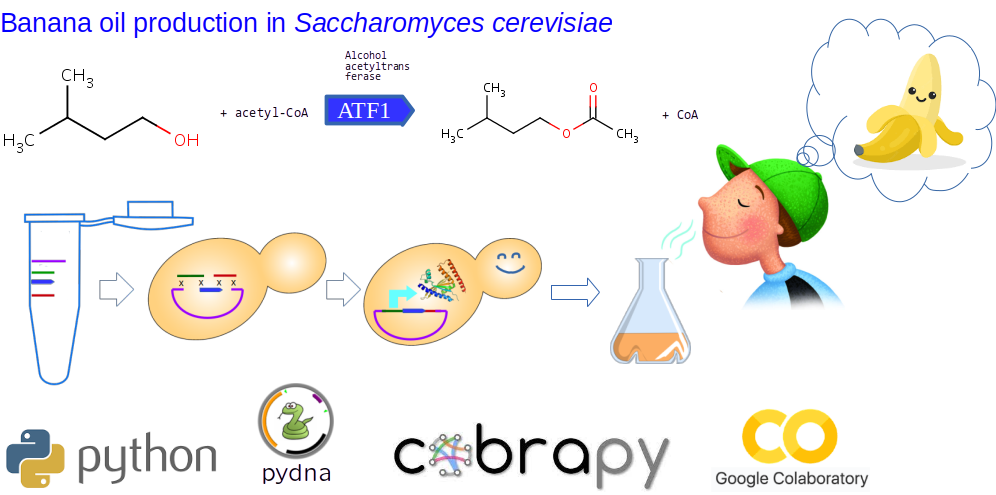
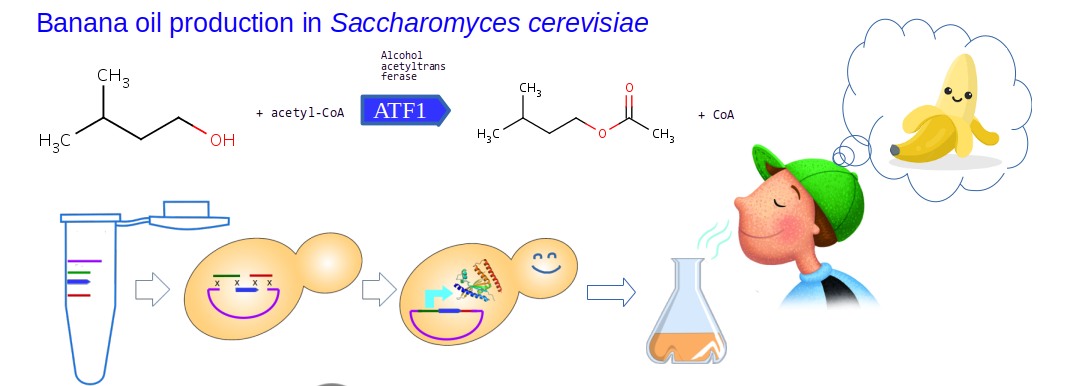
Published via Quartz Syncer

diff --git a/content/people.md b/content/people.md
@@ -4,8 +4,8 @@ publish: true
 
 | Current members                                                |                                       | links                                                                                                                                                                                                                                                                                                                                                                                                                                                                                                                                                                                                                                                                                                                                                                                                                                                                                                                         |
 | -------------------------------------------------------------- | ------------------------------------- | ----------------------------------------------------------------------------------------------------------------------------------------------------------------------------------------------------------------------------------------------------------------------------------------------------------------------------------------------------------------------------------------------------------------------------------------------------------------------------------------------------------------------------------------------------------------------------------------------------------------------------------------------------------------------------------------------------------------------------------------------------------------------------------------------------------------------------------------------------------------------------------------------------------------------------- |
-| ![[people/CatarinaMartins.jpeg]]                                      | Catarina Martins, PhD student         | [ORCID](https://orcid.org/0009-0009-6824-5884)<br><br>[Cienciavitae](https://www.cienciavitae.pt)                                                                                                                                                                                                                                                                                                                                                                                                                                                                                                                                                                                                                                                                                                                                                                                                                             |
-| ![[people/Luana_Salgado_Moura_a102381.jpg]]                           | Luana Moura, MSc student              | [ORCID](https://orcid.org/0009-0004-2625-5324)  <br><br>[Cienciavitae](https://www.cienciavitae.pt//pt/4517-4344-A198)                                                                                                                                                                                                                                                                                                                                                                                                                                                                                                                                                                                                                                                                                                                                                                                                        |
+| ![[Catarina Martins/CatarinaMartins.jpeg]]                                      | Catarina Martins, PhD student         | [ORCID](https://orcid.org/0009-0009-6824-5884)<br><br>[Cienciavitae](https://www.cienciavitae.pt)                                                                                                                                                                                                                                                                                                                                                                                                                                                                                                                                                                                                                                                                                                                                                                                                                             |
+| ![[Luana Moura/Luana_Salgado_Moura_a102381.jpg]]                           | Luana Moura, MSc student              | [ORCID](https://orcid.org/0009-0004-2625-5324)  <br><br>[Cienciavitae](https://www.cienciavitae.pt//pt/4517-4344-A198)                                                                                                                                                                                                                                                                                                                                                                                                                                                                                                                                                                                                                                                                                                                                                                                                        |
 | ![[people/mariana.png]]                                               | Mariana dos Santos, MSc student       | [CIÊNCIAVITAE](https://www.cienciavitae.pt//E418-B04B-D8F5)<br><br>[ORCID](https://orcid.org/0009-0007-1709-1294)                                                                                                                                                                                                                                                                                                                                                                                                                                                                                                                                                                                                                                                                                                                                                                                                             |
 | ![HumbertoPereira](people/HumbertoPereira.jpg)                 | Humberto Pereira, PhD student         | [cienciavitae](https://www.cienciavitae.pt/8E15-710B-3953) [Google Scholar](https://scholar.google.pt/citations?hl=en\&user=v2htOOsAAAAJ\&view_op=list_works\&sortby=pubdate)                                                                                                                                                                                                                                                                                                                                                                                                                                                                                                                                                                                                                                                                                                                                                    |
 | ![BjornJohansson](people/BjornJohanssonWhiteBoard.jpg)         | Björn Johansson, PI                   | [CBMA page](https://cbma.uminho.pt/people-detail/?userid=22) [Dept page](http://www.bio.uminho.pt/popup.aspx?mdl=~/Modules/PortalSearch/ContactDetails.ascx\&mid=738\&id=224293\&lang=en-US) [CIÊNCIAVITAE](https://www.cienciavitae.pt//en/B710-97FC-DACA) [CIÊNCIA ID](https://www.cienciavitae.pt/B710-97FC-DACA) FCT Public Key (chave pública) `J005395QL1Q` [Github BjornFJohansson](https://github.com/BjornFJohansson) [Google Scholar](https://scholar.google.pt/citations?hl=en\&user=7AiEuJ4AAAAJ\&view_op=list_works\&sortby=pubdate) [ORCID 0000-0002-7723-074X](http://orcid.org/0000-0002-7723-074X) [ResearcherID A-3523-2012](http://www.researcherid.com/rid/A-3523-2012) [SCOPUS 55984151300](https://www.scopus.com/authid/detail.uri?authorId=55984151300) [ResearchGate](https://www.researchgate.net/profile/Bjoern_Johansson4) [Stackoverflow](http://stackoverflow.com/users/2080368/bj%C3%B6rn-johansson) |

diff --git a/content/in silico assembly of pTA1_TDH3_ATF1_PGI1.md b/content/in silico assembly of pTA1_TDH3_ATF1_PGI1.md
@@ -8,7 +8,7 @@ This document will show you how to assemble an expression vector called `pTA1_TD
 
 This vector is a combination of:
 
-- A strong TDH3/[YBR192C](https://www.yeastgenome.org/locus/YGR192C) promoter from the _S. cerevisiae_ glyceraldehyde-3-phosphate dehydrogenase (GAPDH),
+- A strong TDH3 / YBR192C promoter from the _S. cerevisiae_ glyceraldehyde-3-phosphate dehydrogenase (GAPDH),
 - The ATF1 gene from the pYPKa\_A\_ATF1 plasmid
 - A terminator consisting of the phosphoglucose isomerase (PGI1/[YBR196C](https://www.yeastgenome.org/locus/YBR196C)) upstream intergenic sequence.
 - A pTA1 vector. The pTA1 vector provides s**election markers** and **origin of replication**.
@@ -18,27 +18,27 @@ This vector is a combination of:
 The first step is to collect all sequences needed for the assembly. For a Yeast Pathway Kit single gene expression TU vector, this means:
 
 1. A **linear** plasmid sequence
-2. A promoter PCR produc
-3. A gene PCR produc
-4. A terminator PCR produc
+2. A promoter PCR product
+3. A gene PCR product
+4. A terminator PCR product
 
 ### 1. Linearize vector
 
-The pTA1 vector is available [here](https://github.com/MetabolicEngineeringGroupCBMA/YeastPathwayKit/blob/master/sequences/pTA1.gb). It should be linearized using the [[ypk restriction enzymes|ZraI]] restriction enzyme. Use the Enzymes>Enzyme selector to find the
-cut location of this enzyme. The linear plasmid sequence can be obtained by using the ApE Edit>"_Linearize @ insert site_" [[ApE#How to linearize a circular sequence at a specific location.|function]].
+The pTA1 vector is available [here](https://github.com/MetabolicEngineeringGroupCBMA/public-sequences/blob/main/YeastPathwayKit/sequences/pTA1.gb). It should be linearized using the [[ypk restriction enzymes|ZraI]] restriction enzyme. Use the Enzymes>Enzyme selector to find the cut location of this enzyme. The linear plasmid sequence can be obtained by using the ApE Edit>"_Linearize @ insert site_" [[ApE#How to linearize a circular sequence at a specific location.|function]].
 
 ### 2. Obtain PCR product sequences
 
 ![[in silico assembly of pTA1_TDH3_ATF1_PGI1-20240926080600744.png]]
 
-The PCR products can be obtained using [WebPCR](https://pydnaweb.streamlit.app/pcr) and the PCR primers indicated in the table below.
+| Target     | Template                                                                                                                              | Forward primer # | Reverse primer # |
+| ---------- | ------------------------------------------------------------------------------------------------------------------------------------- | ---------------- | ---------------- |
+| Promoter   | [pYPKa\_Z\_TDH3](https://github.com/MetabolicEngineeringGroupCBMA/public-sequences/blob/main/YeastPathwayKit/sequences/pYPKa_Z_TDH3.gb) | 577              | 567              |
+| Gene       | [[in silico assembly of pYPKa_A_ATF1\|pYPKa_A_ATF1]]                                                                                  | 468              | 467              |
+| Terminator | [pYPKa\_E\_PGI1](https://github.com/MetabolicEngineeringGroupCBMA/public-sequences/blob/main/YeastPathwayKit/sequences/pYPKa_E_PGI1.gb) | 568              | 578              |
+All six primer sequences are available [here](standard%20primers.md). The PCR products can be obtained using [WebPCR](https://pydnaweb.streamlit.app/pcr) and the PCR primers indicated.
+For example, PCR simulation with primers 577, 578 and the sequence for `pYPKa_Z_TDH3`
 
-| Target     | Template                                                                                                               | Forward primer | Reverse primer |
-| ---------- | ---------------------------------------------------------------------------------------------------------------------- | -------------- | -------------- |
-| Promoter   | [pYPKa\_Z\_TDH3](https://github.com/MetabolicEngineeringGroupCBMA/YeastPathwayKit/blob/master/sequences/pYPKa_Z_TDH3.gb) | 577            | 567            |
-| Gene       | [pYPKa\_A\_ATF1](in%20silico%20assembly%20of%20pYPKa_A_ATF1)                                                             | 468            | 467            |
-| Terminator | [pYPKa\_E\_PGI1](https://github.com/MetabolicEngineeringGroupCBMA/YeastPathwayKit/blob/master/sequences/pYPKa_E_PGI1.gb) | 568            | 578            |
-All primer sequences are available [here](standard%20primers.md).
+![[in silico assembly of pTA1_TDH3_ATF1_PGI1pln4i3.png]]
 
 Collect the linear vector sequence and the three PCR product sequences in [[Genbank#fasta format|FASTA format]] in a text editor such as Notepad like so:
 
@@ -46,7 +46,7 @@ Collect the linear vector sequence and the three PCR product sequences in [[Genb
 
 ### 3. Assembly using PydnaWeb
 
-Paste the four sequences into the [Assembly simulator](https://pydna.pythonanywhere.com/assembly) tool:
+Paste the four sequences into the [Assembly simulator](https://pydnaweb.streamlit.app/assembly) tool:
 
 ![[in silico assembly of pTA1_TDH3_ATF1_PGI1-20240709183935399.png]]
 
@@ -58,11 +58,11 @@ The resulting sequence should be around 9646 bp and have a short seguid checksum
 
 Compare the size and complete seguid checksum with that of your colleagues.
 
-## Assembly using Colab
+## Assembly using Colab (Optional)
 
 The assembly can also be done using pydna directly. For this exercise, we will use pydna and [google colab](https://colab.research.google.com) which you can use if you have a free google account.
-Colab is a hosted Jupyter Notebook service that requires no setup.  A [Jupyter notebook](https://nbviewer.org) is a python program file that can also show comments and images as
-well as intermediate results. Colab allows you to write and execute Python in your browser without installing any software.
+
+Colab is a hosted Jupyter Notebook service that requires no setup.  A [Jupyter notebook](https://nbviewer.org) is a python program file that can also show comments and images as well as intermediate results. Colab allows you to write and execute Python in your browser without installing any software.
 
 Go to [Google colab](https://colab.research.google.com) in you web browser. Create a new notebook by clicking on the "New notebook button", see the image below:
 

diff --git a/content/in silico assembly of pYPKa_A_ATF1.md b/content/in silico assembly of pYPKa_A_ATF1.md
@@ -4,11 +4,11 @@ publish: true
 
 ![[in silico assembly of pYPKa_A_ATF1-20240926073427367.png]]
 
-The pYPKa\_A\_ATF1 is a cloning vector which has the _S. cerevisiae_ alcohol acetyltransferase gene _[ATF1/YOR377W](https://www.yeastgenome.org/locus/S000005904)_ gene, but no promoter or terminator. The purpose of this plasmid is to serve as template for a subsequent PCR reaction. The plasmid is made by cloning a PCR product containing the _ATF1_ gene into the _AjiI_ restriction site of the pYPKa plasmid using the AjiI restriction enzyme and DNA ligase.
+The pYPKa\_A\_ATF1 is a cloning vector which has the _S. cerevisiae_ alcohol acetyltransferase gene ATF1 / YOR377W. The purpose of this plasmid is to serve as template for a subsequent PCR reaction. The plasmid is made by cloning a PCR product containing the _ATF1_ gene into the _AjiI_ restriction site.
 
 The  _AjiI_ restriction site is blunt, so we do **not** need to digest the PCR product as it has blunt ends already.
 
-Use the following in order to assemble the sequence for the **pYPKa\_A\_ATF1** plasmid _in-silico_:
+Do the following in order to assemble the sequence for the **pYPKa\_A\_ATF1** plasmid _in-silico_:
 
 ## 1. PCR simulation
 
@@ -23,25 +23,21 @@ gcaataATGGGTAATGAAATCGATGAGAAAAATCA
 TTAAGGGCCTAAAAGGA
 ```
 
-Use the [WebPCR](https://pydnaweb.streamlit.app/pcr) tool to simulate the PCR reaction using the primer sequences and the _ATF1_ sequence from GenBank. Place the primer sequences before the _ATF1_ gene as indicated in the figure below.
+Assemble the PCR product manually from the primer sequences and the gene sequence.
 
-![[in silico assembly of pYPKa_A_ATF1-20240709175312224.png]]
-Click "submit" to perform the simulation. the result should look like this:
-
-![[in silico assembly of pYPKa_A_ATF1-20240926064924447.png]]
-The last sequence is the PCR product. The PCR product sequence should be 1587 bp long:
-
-![[in silico assembly of pYPKa_A_ATF1-20240926072124376.png]]
+The PCR product should be 1587 bp long and have a short seguid: `ldseguid=cVE4g6`
 
 ## 2. _in-silico_ cloning
 
-Get the pYPKa sequence [file](https://github.com/MetabolicEngineeringGroupCBMA/YeastPathwayKit/blob/master/sequences/pYPKa.gb) and open it in ApE. You can do this by saving the file to your computer and
-dragging the sequence file to the empty ApE window. See the result below. The sequence should have 3128 bp.
+Get the pYPKa sequence [file](https://github.com/MetabolicEngineeringGroupCBMA/public-sequences/blob/main/YeastPathwayKit/sequences/pYPKa.gb) and open it in ApE. You can do this by saving the file to your computer and
+dragging the sequence file to the empty ApE window. See the result below.
+The pYPKa sequence should have 3128 bp and seguid `cdseguid=IFLMpKpCGZio0R0YkGSfqPaKKiw`.
 
 ![[in silico assembly of pYPKa_A_ATF1-20240709173627486.png]]
 
-Find  The **[AjiI](http://rebase.neb.com/rebase/enz/AjiI.html)** has the same specificity as the enzymes(or \*\* [BtrI](http://rebase.neb.com/rebase/enz/BtrI.html) \*\* or **[BmgBI](http://rebase.neb.com/rebase/enz/BmgBI.html)**). Use the Enzymes>Enzyme selector option and try to find the AjiI restriction site.
-You can also use the Edit>Find or CTRL-F search to find the recognition sequence of the enzyme (CACGTC).
+Find the [AjiI](http://rebase.neb.com/rebase/enz/AjiI.html) or [BtrI](http://rebase.neb.com/rebase/enz/BtrI.html)  or  [BmgBI](http://rebase.neb.com/rebase/enz/BmgBI.html) restriction site (They have the same specificity) . Use the Enzymes>Enzyme selector option and try to find the AjiI restriction site.
+
+You can also use the Edit>Find or CTRL-F search to find the recognition sequence of the enzyme (`CACGTC`).
 
 If **AjiI** is not available in the enzyme selection of ApE, try to find  **BtrI** instead.
 
@@ -56,10 +52,8 @@ Paste the PCR product sequence at the cut site of the pYPKa. See figure below.
 
 Calculate the **size** and complete **seguid checksum** of the resulting plasmid.
 
-The expected size is 4715 Kb and the short seguid checksum is `cdseguid=EsiXAn`
+The expected size is 4715 bp and the short seguid checksum is `cdseguid=EsiXAn`.
 
-The seguid checksum is available in ApE by clicking on the finger print button (see figure above).
+Compare your result with that of your colleagues. Save the new sequence file on your computer under the name **pYPKa\_A\_ScATF1.gb**.
 
-Compare your result with that of your colleagues. Save the new sequence file on your computer under the name **pYPKa\_A\_ATF1.gb**.
-
-You can continue to the assembly of the _AFT1_ TU-vector [[in silico assembly of pTA1_TDH3_ATF1_PGI1|pTA1_TDH3_ATF1_PGI1]].
+You can now continue to the assembly of the _AFT1_ TU-vector [[in silico assembly of pTA1_TDH3_ATF1_PGI1|pTA1_TDH3_ATF1_PGI1]].

diff --git a/content/The Yeast Pathway Kit.md b/content/The Yeast Pathway Kit.md
@@ -77,7 +77,7 @@ Since all fragment are cloned in the same vector, DNA fragments sharing terminal
 
 Approximate location of six PCR primers used for this purpose are indicated by numbers in the figure below (577, 567), (468, 467) and (568, 578).
 
-![641](files/MetabolicEngineeringGroupCBMA GitHub Org/YeastPathwayKit/docs/pYPKa_005.png)
+![641](files/MetabolicEngineeringGroupCBMA%20GitHub%20Org/YeastPathwayKit/docs/pYPKa_005.png)
 
 Promoters are amplified using primers **577+567**, genes using **468+467** and terminators using **568+578**.
 
@@ -101,15 +101,15 @@ For this to be possible, promoters and terminators need to be identical DNA frag
 
 Primer locations around the ZraI, AjiI and EcoRV sites in pYPKa:
 
-![](files/MetabolicEngineeringGroupCBMA GitHub Org/YeastPathwayKit/docs/A3_YPK_poster2.png)
+![](files/MetabolicEngineeringGroupCBMA%20GitHub%20Org/YeastPathwayKit/docs/A3_YPK_poster2.png)
 
 Primer locations around the ZraI, AjiI and EcoRV sites in pYPKpw and derived vectors, such as the pTAx series:
 
-![](files/MetabolicEngineeringGroupCBMA GitHub Org/YeastPathwayKit/docs/A3_YPK_poster3.png)
+![](files/MetabolicEngineeringGroupCBMA%20GitHub%20Org/YeastPathwayKit/docs/A3_YPK_poster3.png)
 
 A short summary of the Yeast Pathway Kit:
 
-![1481](files/MetabolicEngineeringGroupCBMA GitHub Org/YeastPathwayKit/docs/A3_YPK_poster1.png)
+![1481](files/MetabolicEngineeringGroupCBMA%20GitHub%20Org/YeastPathwayKit/docs/A3_YPK_poster1.png)
 
 PDF versions of the images above are available [here](https://github.com/MetabolicEngineeringGroupCBMA/YeastPathwayKit/blob/master/docs/A3_YPK_poster.pdf).
 

diff --git a/content/Pathway assembly with the Yeast Pathway Kit.md b/content/Pathway assembly with the Yeast Pathway Kit.md
@@ -79,7 +79,7 @@ Since promoters genes and terminators are cloned in essentially the same vector,
 
 Approximate location of six PCR primers used for this purpose are indicated by numbers in the figure below (577, 567, 468, 467, 568, 578).
 
-![](files/MetabolicEngineeringGroupCBMA GitHub Org/YeastPathwayKit/docs/pYPKa_005.png)
+![](files/MetabolicEngineeringGroupCBMA%20GitHub%20Org/YeastPathwayKit/docs/pYPKa_005.png)
 
 Promoters are amplified using primers 577, 567, genes using 468, 467 and terminators using 568, 578.
 
@@ -106,14 +106,14 @@ For this to be possible, promoters and terminators need to be identical DNA frag
 
 Primer locations around the ZraI, AjiI and EcoRV sites in pYPKa:
 
-![](files/MetabolicEngineeringGroupCBMA GitHub Org/YeastPathwayKit/docs/A3_YPK_poster2.png)
+![](files/MetabolicEngineeringGroupCBMA%20GitHub%20Org/YeastPathwayKit/docs/A3_YPK_poster2.png)
 
 Primer locations around the ZraI, AjiI and EcoRV sites in pYPKpw and derived vectors, such as the pTAx series:
 
-![](files/MetabolicEngineeringGroupCBMA GitHub Org/YeastPathwayKit/docs/A3_YPK_poster3.png)
+![](files/MetabolicEngineeringGroupCBMA%20GitHub%20Org/YeastPathwayKit/docs/A3_YPK_poster3.png)
 
 A short summary of the Yeast Pathway Kit:
 
-![](files/MetabolicEngineeringGroupCBMA GitHub Org/YeastPathwayKit/docs/A3_YPK_poster1.png)
+![](files/MetabolicEngineeringGroupCBMA%20GitHub%20Org/YeastPathwayKit/docs/A3_YPK_poster1.png)
 
 PDF versions of the images above are available [here](https://github.com/MetabolicEngineeringGroupCBMA/YeastPathwayKit/blob/master/docs/A3_YPK_poster.pdf).

diff --git a/content/GBM26.md b/content/GBM26.md
@@ -1,0 +1,33 @@
+---
+publish: true
+---
+
+![[banana_oil.png]]
+
+This document contain notes and links pertaining to the master course Genética e Biotecnologia Molecular 2026/2027 given to students attending Mestrado em Bioquímica Aplicada (MBQA) or Mestrado em Genética Molecular (MGM).
+
+You need to bring a **laptop** computer to this class, and you also need to have a [**Google account**](https://www.google.com/account/about/) and the [[ApE]] plasmid editor app.
+
+Your task is to assemble the sequence of the ATF1 expression vector `pTA1_TDH3_ScATF1_PGI1` using the Yeast Pathway Kit.
+
+## Assembly of the pYPKa\_A\_ATF1 vector
+
+Your first task is to assemble the pYPKa\_A\_ATF1 vector. Follow [[in silico assembly of pYPKa_A_ATF1|these]] instructions.
+
+When you have a candidate for the pYPKa\_A\_ATF1 vector sequence, calculate the SEGUID checksum by using the finger print button in [[ApE]].
+
+Compare your result with that of your instructor.
+
+## Assembly of the pTA1\_TDH3\_ScATF1\_PGI1 vector
+
+Your second task is to assemble the pTA1\_TDH3\_ScATF1\_PGI1 vector.
+You need the pYPKa\_A\_ATF1 plasmid sequence that you assembled in the previous step to do this. T
+This is more complex as it is made by homologous recombination of four DNA fragments.
+
+Follow these [[in silico assembly of pTA1_TDH3_ATF1_PGI1|instructions]].
+
+When you are done, fill in your results in the Google spreadsheet.
+
+## Yeast transformation
+
+Yeast transformation [[Yeast transformation GBM24|Protocol]].

diff --git a/content/metabolic maps.md b/content/metabolic maps.md
@@ -2,12 +2,10 @@
 publish: true
 ---
 
-![[metabolic maps.png|825]]
+![[maps/metabolic maps.png|825]]
 
-![[Saccharomyces_cerevisiae_metabolic_map_LARGE.jpeg|Saccharomyces cerevisiae metabolic map (old)|935x1283]]
+![[maps/Saccharomyces_cerevisiae_metabolic_map_LARGE.jpeg|Saccharomyces cerevisiae metabolic map (old)|935x1283]]
 
-![[metabolic maps-20240706080835722.png]]
+![[maps/metabolic maps-20240706080835722.png]]
 
-![[files/Pasted image 20240309054721.jpg|1340]]
-
-![[download-1.png]]
+![[maps/Pasted image 20240309054721.jpg|1340]]

diff --git a/content/P40Y20.md b/content/P40Y20.md
@@ -4,7 +4,7 @@ publish: true
 
 This solution can be used as stock for both [[LB]] and [[YPD]] medium.
 
-- This solution is 4x concentrated for [[LB]] and [[files/wiki/YPD#YPDlight or 1/2-strength YPD or 0.5xYPD|YPDlight]].
+- This solution is 4x concentrated for [[LB]] and [[YPD#YPDlight or 1/2-strength YPD or 0.5xYPD|YPDlight]]
 - This solution is 2x concentrated for [[YPD]].
 
 ### Mix

diff --git a/content/Teaching.md b/content/Teaching.md
@@ -61,4 +61,4 @@ Best practices:
 - [[GMB21]]
 - [[LIB20 tests]]
 - [[Purifying and testing recombinant Taq DNA polymerase]]
-- [[GBM23]] Master
+- [[GBM26]] Master
